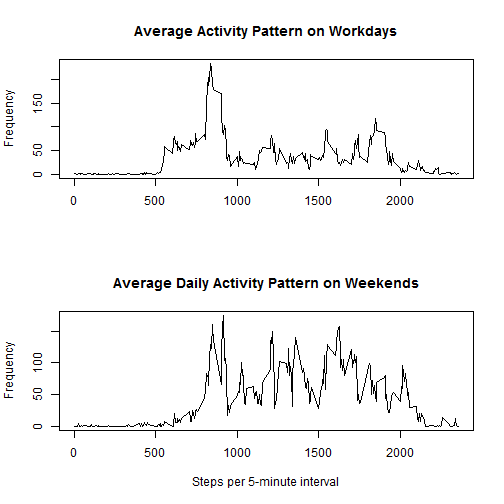
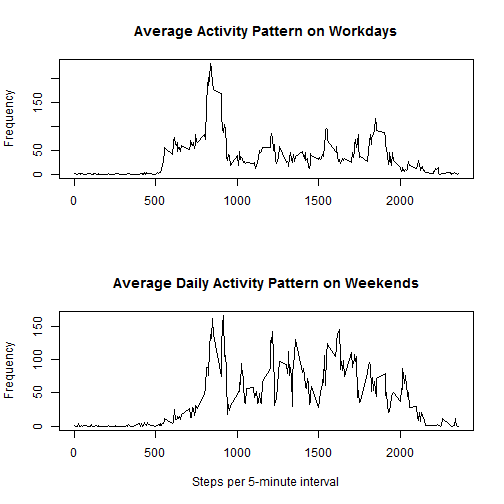
add some corrections

diff --git a/PA1_template.html b/PA1_template.html
@@ -341,14 +341,14 @@ interals and the means of steps are calculated.</p>
 
 <pre><code class="r">library(dplyr)
 
-actWD &lt;- activities %&gt;%
+actWD &lt;- actFull %&gt;%
     filter(!is.na(steps) &amp; 
                       !(weekdays(as.POSIXlt(date)) == &quot;Samstag&quot; | 
                         weekdays(as.POSIXlt(date)) == &quot;Sonntag&quot;)) %&gt;%
     group_by(interval) %&gt;%
     summarize(mean = mean(steps))
 
-actWE &lt;- activities %&gt;%
+actWE &lt;- actFull %&gt;%
     filter(!is.na(steps) &amp; 
                       (weekdays(as.POSIXlt(date)) == &quot;Samstag&quot; | 
                        weekdays(as.POSIXlt(date)) == &quot;Sonntag&quot;)) %&gt;%
@@ -363,14 +363,14 @@ plot(actWE$interval, actWE$mean, type=&#39;l&#39;,
     xlab=&quot;Steps per 5-minute interval&quot;, ylab=&quot;Frequency&quot;)
 </code></pre>
 
[2 lines of base64/hex data omitted]
 
 <pre><code class="r">stepsPerWorkday &lt;- round(mean(actWD$mean) * 288)
 stepsPerWeekendday &lt;- round(mean(actWE$mean) * 288)
 </code></pre>
 
 <p>On weekends the activity is significant higher than on workdays. The test person
-usually performs 2230 more steps on a Saturday
+usually performs 1946 more steps on a Saturday
 or Sunday than on a normal workday.</p>
 
 </body>

diff --git a/PA1_template.md b/PA1_template.md
@@ -163,14 +163,14 @@ interals and the means of steps are calculated.
 ```r
 library(dplyr)
 
-actWD <- activities %>%
+actWD <- actFull %>%
     filter(!is.na(steps) & 
                       !(weekdays(as.POSIXlt(date)) == "Samstag" | 
                         weekdays(as.POSIXlt(date)) == "Sonntag")) %>%
     group_by(interval) %>%
     summarize(mean = mean(steps))
 
-actWE <- activities %>%
+actWE <- actFull %>%
     filter(!is.na(steps) & 
                       (weekdays(as.POSIXlt(date)) == "Samstag" | 
                        weekdays(as.POSIXlt(date)) == "Sonntag")) %>%
@@ -192,5 +192,5 @@ stepsPerWorkday <- round(mean(actWD$mean) * 288)
 stepsPerWeekendday <- round(mean(actWE$mean) * 288)
 ```
 On weekends the activity is significant higher than on workdays. The test person
-usually performs 2230 more steps on a Saturday
+usually performs 1946 more steps on a Saturday
 or Sunday than on a normal workday.
